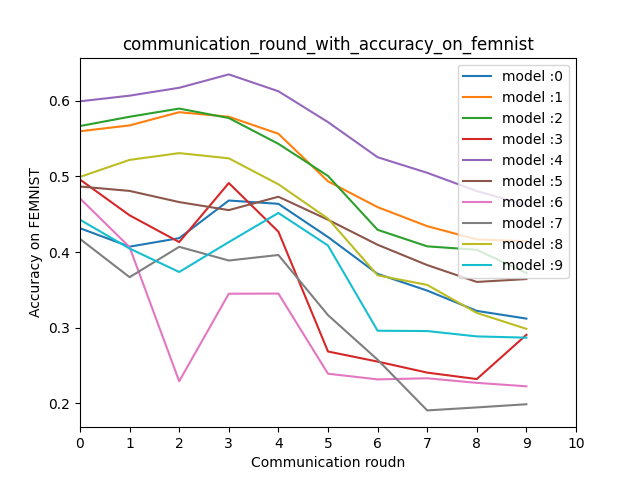
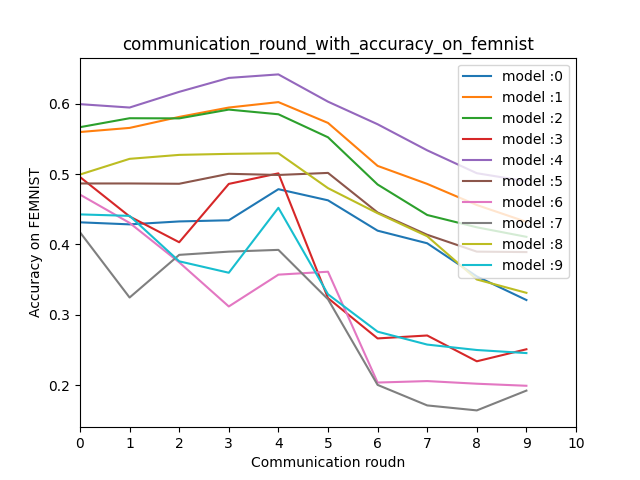
update

diff --git a/collaborative_train_balanced_mnist.py b/collaborative_train_balanced_mnist.py
@@ -26,8 +26,8 @@ def collaborative_private_model_mnist_train(args):
     device ='cuda' if args.gpu else 'cpu'
     # 用于初始化模型的部分
     train_dataset,test_dataset = get_public_dataset(args)
-    models = {"2_layer_CNN": CNN_2layer_fc_model,  # 字典的函数类型
-          "3_layer_CNN": CNN_3layer_fc_model}
+    models = {"2_layer_CNN": CNN_2layer_fc_model_removelogsoftmax,  # 字典的函数类型
+          "3_layer_CNN": CNN_3layer_fc_model_removelogsoftmax}
     modelsindex = ["2_layer_CNN","3_layer_CNN"]
     if args.new_collaborative_training:
         model_list,model_type_list = get_model_list(args.privateurl,modelsindex,models)
@@ -57,7 +57,7 @@ def collaborative_private_model_mnist_train(args):
             # Make output together
             for n, model in enumerate(model_list):
                 model.to(device)
-                model.eval()
+                model.train()
                 outputs = model(images)
                 _,pred_labels = torch.max(outputs,1)
                 pred_labels = pred_labels.view(-1)

diff --git a/collaborative_private_model_femnist_balanced.py b/collaborative_private_model_femnist_balanced.py
@@ -60,7 +60,7 @@ def collaborative_private_model_femnist_train(args):
         elif args.optimizer == 'adam':
             optimizer = torch.optim.Adam(model.parameters(), lr=args.lr,
                                          weight_decay=1e-4)
-        trainloader = DataLoader(DatasetSplit(train_dataset, list(user_groups[n])), batch_size=64, shuffle=True)
+        trainloader = DataLoader(DatasetSplit(train_dataset, list(user_groups[n])), batch_size=32, shuffle=True)
         criterion = nn.NLLLoss().to(device)
         train_epoch_losses = []
         for epoch in range(args.Communication_private_epoch):

diff --git a/private_model_femnist_Accuracy.py b/private_model_femnist_Accuracy.py
@@ -14,7 +14,7 @@ def test_accuracy_privateinitialmodel(args):
     models = {"2_layer_CNN": CNN_2layer_fc_model,  # 字典的函数类型
               "3_layer_CNN": CNN_3layer_fc_model}
     modelsindex = ["2_layer_CNN", "3_layer_CNN"]
-    model_list = get_model_list_test_acuracy(args.privateurl, modelsindex, models)
+    model_list = get_model_list_test_acuracy(args.Collaborativeurl, modelsindex, models)
     accuracy_list = []
     for n, model in enumerate(model_list):
         print('Test accuracy of Local Model {}'.format(n))
